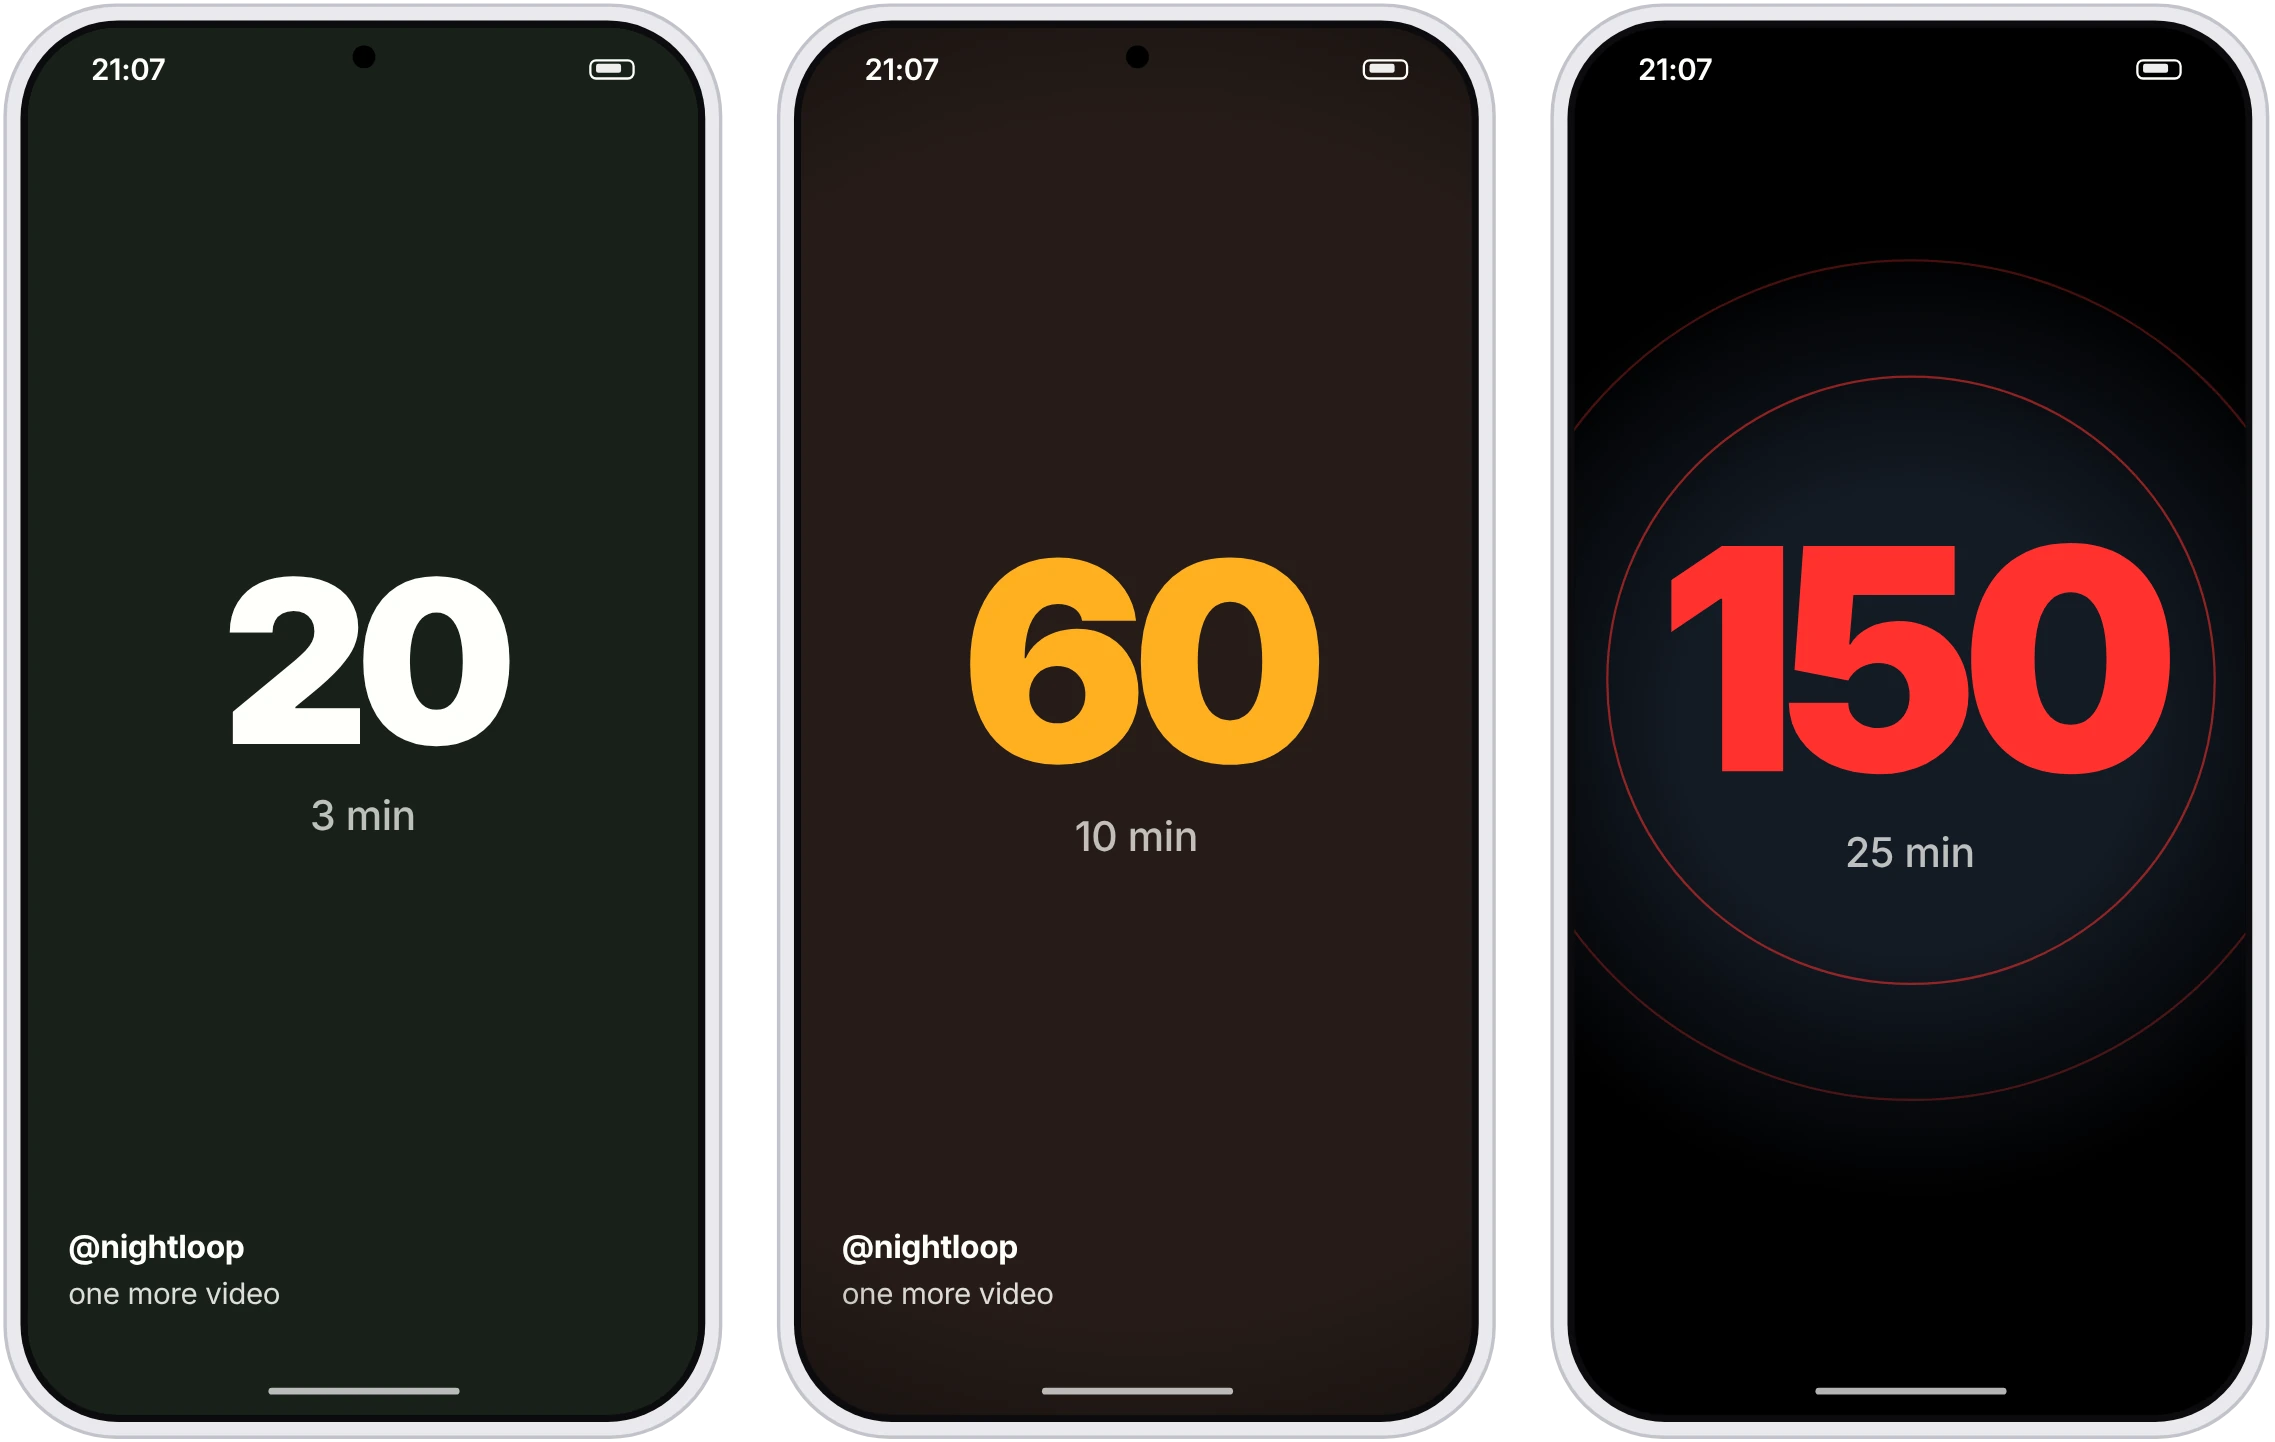
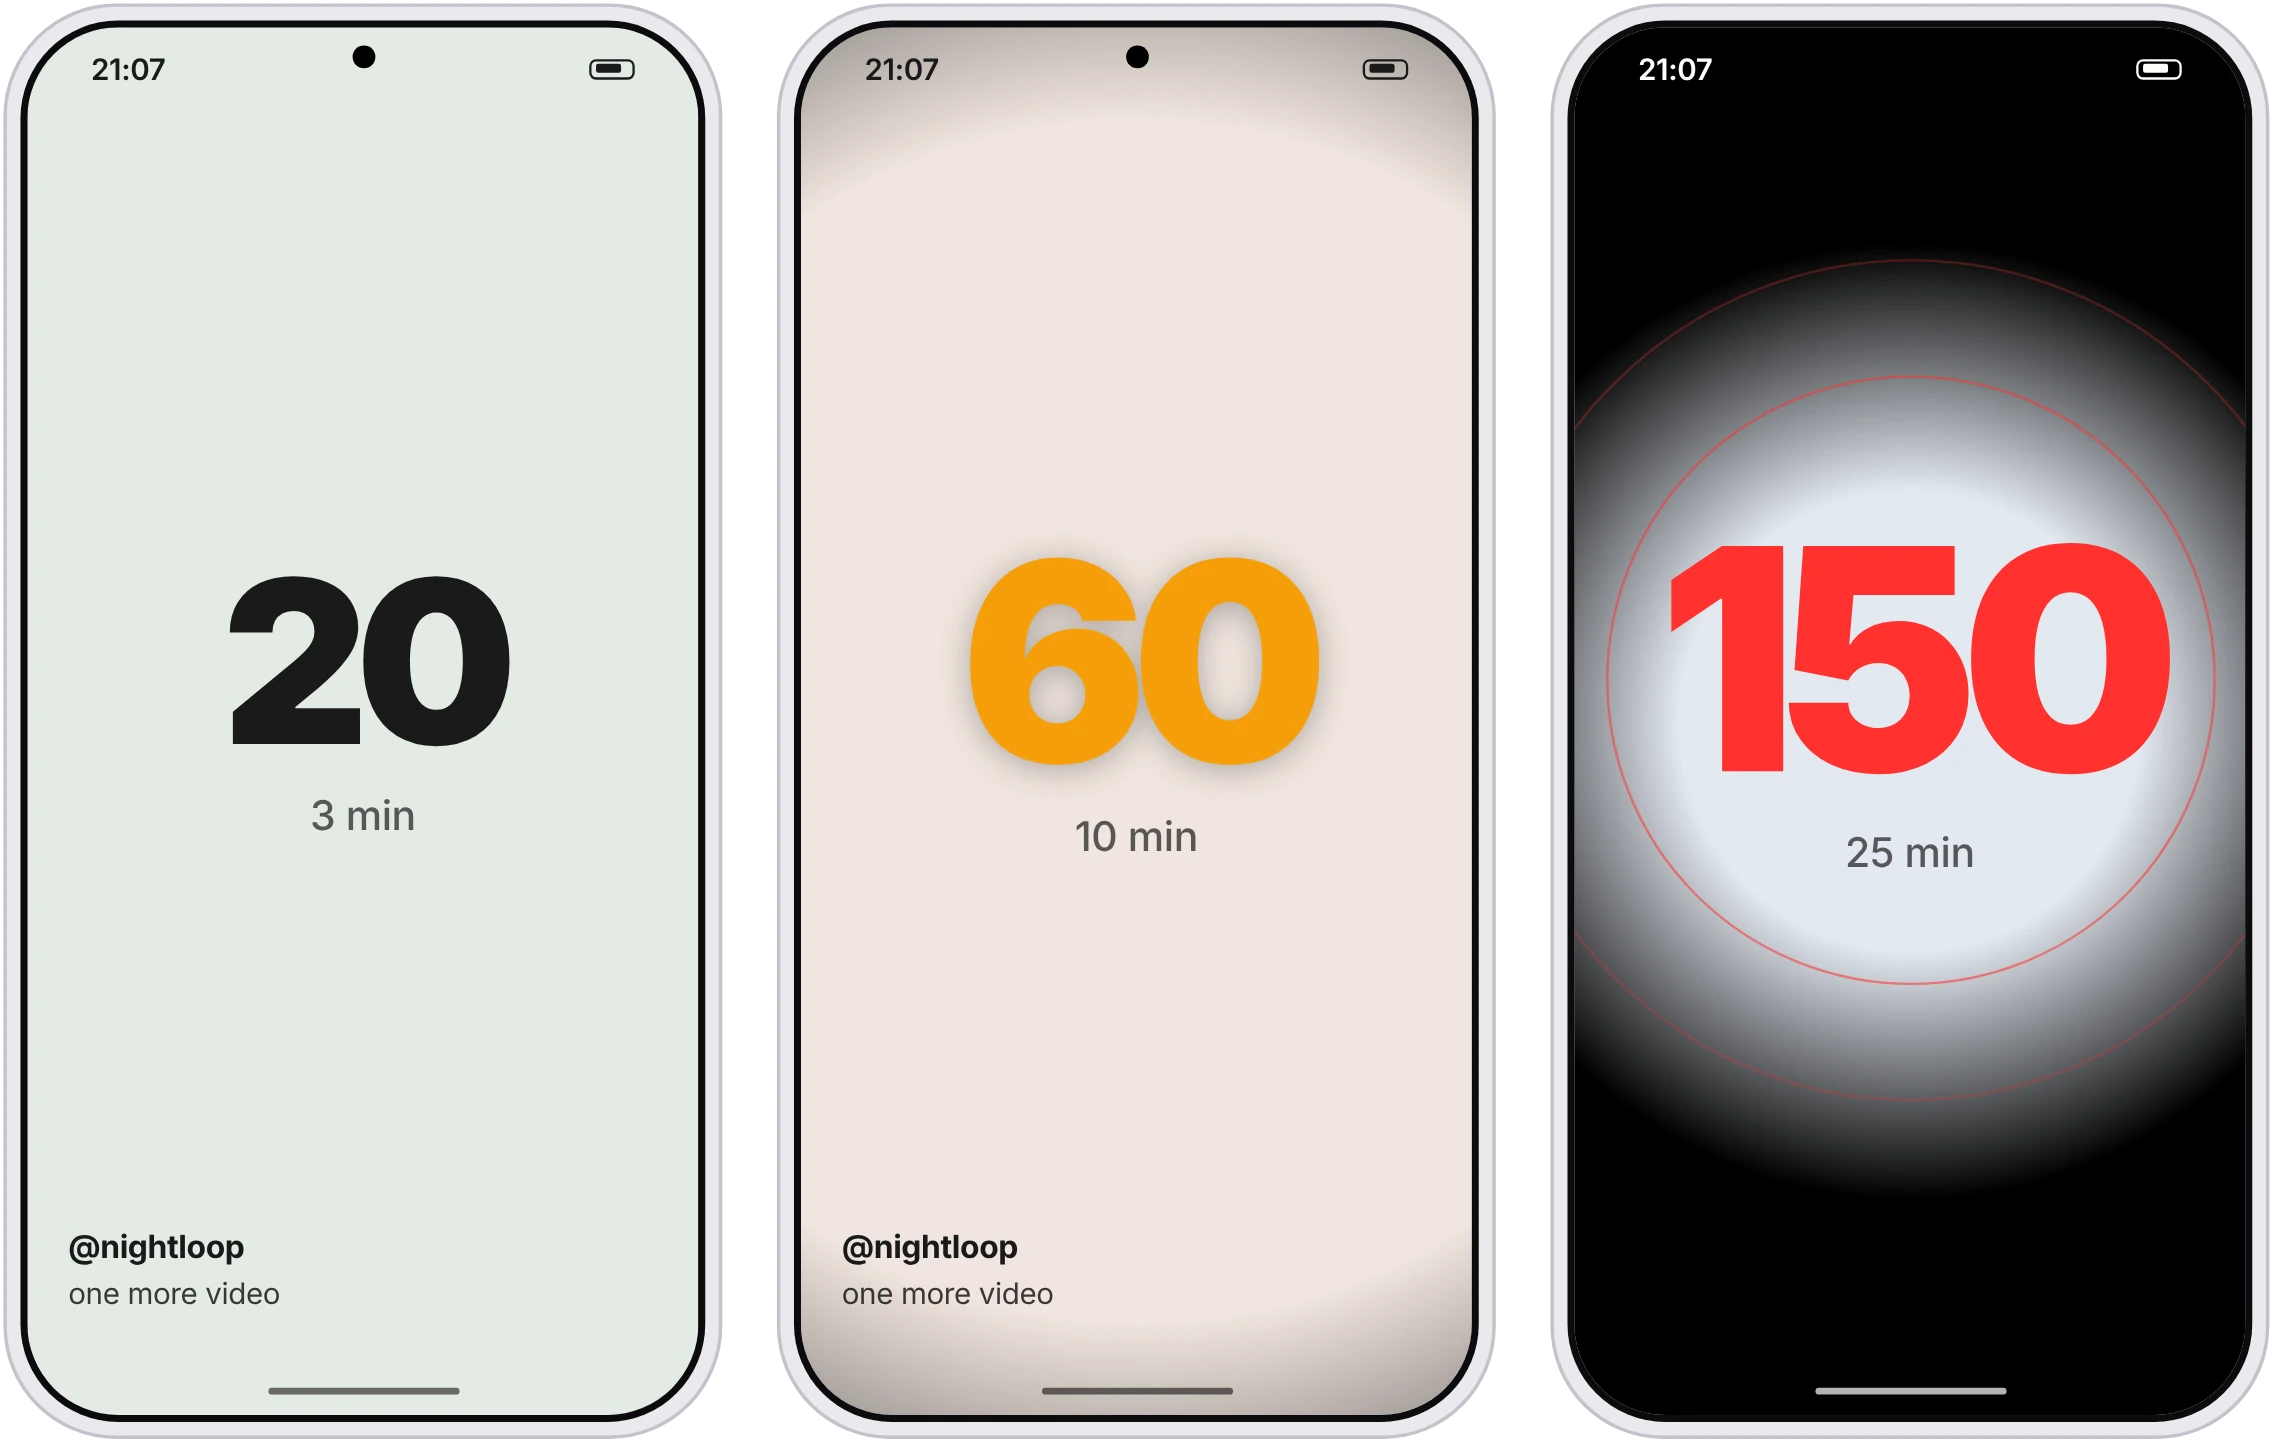
All screenshots and the demo phone use the opposite theme of the page; remove panels behind graphics
Claude-Session: https://claude.ai/code/session_01QRYSTgQJgMDiTSgzP9roCd

diff --git a/styles.css b/styles.css
@@ -97,7 +97,7 @@ h1 { font-size: clamp(2.75rem, 7vw, 5.5rem); font-weight: 400; letter-spacing: -
 .status.error { color: #d92d20; }
 
 /* stage: one big rounded card, demo phone left, controls right */
-.stage { display: grid; grid-template-columns: minmax(0, 1fr) minmax(0, 1fr); background: var(--surface); border-radius: 28px; overflow: hidden; }
+.stage { display: grid; grid-template-columns: minmax(0, 1fr) minmax(0, 1fr); }
 .demo { position: sticky; top: calc(var(--bar-h) + 8px); align-self: start; display: grid; justify-items: center; align-content: start; gap: 16px; padding: clamp(28px, 5vw, 64px) clamp(20px, 4vw, 48px); }
 .features { padding: clamp(16px, 3vw, 40px) clamp(24px, 5vw, 72px) clamp(16px, 3vw, 40px) 0; align-self: center; }
 .feat { padding: 28px 0; border-top: 1px solid var(--line); }
@@ -137,7 +137,7 @@ h1 { font-size: clamp(2.75rem, 7vw, 5.5rem); font-weight: 400; letter-spacing: -
 .widgets-copy { grid-column: 1; grid-row: 2; }
 .widgets h2 { grid-column: 1; grid-row: 1; }
 .widgets-copy .small { font-size: .875rem; }
-.homescreen { grid-column: 2; grid-row: 1 / span 2; max-width: 480px; justify-self: end; display: grid; grid-template-columns: repeat(2, minmax(0, 1fr)); gap: clamp(12px, 2vw, 24px); padding: clamp(16px, 2.5vw, 32px); background: var(--surface); border-radius: 24px; width: 100%; }
+.homescreen { grid-column: 2; grid-row: 1 / span 2; max-width: 480px; justify-self: end; display: grid; grid-template-columns: repeat(2, minmax(0, 1fr)); gap: clamp(12px, 2vw, 24px); padding: 0; width: 100%; }
 
 /* what Tally leaves alone: four plain columns */
 .never { padding-top: clamp(72px, 12vh, 136px); }
@@ -247,7 +247,7 @@ h1 { font-size: clamp(2.75rem, 7vw, 5.5rem); font-weight: 400; letter-spacing: -
 
 .wcol { display: grid; gap: clamp(12px, 2.4vw, 20px); align-content: start; }
 .wname { text-align: center; font-size: .9rem; color: var(--muted); }
-.widget { position: relative; container-type: inline-size; background: var(--bg); border: 1px solid var(--line); width: 100%; color: var(--ink); }
+.widget { position: relative; container-type: inline-size; background: var(--surface); border: 1px solid var(--line); width: 100%; color: var(--ink); }
 .w-square { aspect-ratio: 1; border-radius: 17cqw; border-radius: 28px; }
 .w-small { height: 72px; border-radius: 24px; display: flex; align-items: center; justify-content: space-between; padding: 0 14px; }
 .w-square .small-eye { position: absolute; top: 12px; right: 12px; }
@@ -309,4 +309,19 @@ h1 { font-size: clamp(2.75rem, 7vw, 5.5rem); font-weight: 400; letter-spacing: -
   .never ul { grid-template-columns: minmax(0, 1fr); }
   .nav-links { justify-content: space-between; margin: 0 -8px; }
   .nav-links a { padding: 8px 9px; font-size: .875rem; }
+}
+
+/* the demo phone follows the same rule as the screenshots: dark screen on a light page, light screen on a dark page */
+@media (prefers-color-scheme: dark) {
+  .phone { background: #e9e9ed; box-shadow: 0 0 0 1.5px #c3c3cb; }
+  .screen { background: #fff; box-shadow: 0 0 0 3px #0b0b0d; }
+  .slide { background: hsl(var(--h) 34% 91%); color: #1a1a1a; }
+  .slide .cap { color: #1a1a1a; }
+  .rail svg { stroke: #1a1a1a; }
+  .statusbar { color: #1a1a1a; }
+  .gesture { background: rgba(0, 0, 0, .5); }
+  .hint { color: #1a1a1a; text-shadow: none; }
+  .screen:focus-visible { outline-color: var(--red); }
+  .overlay[data-tone="white"] .num, .overlay[data-tone="white"][data-mode="time"] .mins { color: #1a1a1a; }
+  .overlay[data-tone="white"] .mins { color: rgba(26, 26, 26, .7); }
 }

diff --git a/demo.js b/demo.js
@@ -56,6 +56,7 @@ function render() {
   overlay.classList.toggle("hidden", !shown);
   overlay.dataset.mode = state.mode;
   overlay.style.setProperty("--c", color);
+  overlay.dataset.tone = n >= 30 ? "hot" : "white"; // light-screen styling reads this
   overlay.style.setProperty("--glow", glow);
   overlay.style.setProperty("--nz", (31 + 14 * Math.min(n / 150, 1)).toFixed(2));
   numEl.textContent = n;

diff --git a/README.md b/README.md
@@ -8,7 +8,7 @@ Live at https://jergusino.github.io/tally/ (GitHub Pages, branch `main`, folder 
 
 - `index.html`, `styles.css`, `script.js` (forms, nav), `demo.js` (the demo phone): one page with sections #number, #veil, #widgets and #settings. The nav scrolls smoothly to them. No build step.
 - `fonts/inter-latin-var.woff2`: Inter (variable), self-hosted, Latin only.
-- `images/number.webp`, `veil.webp`, `apps.webp`: graphics of the app screens, drawn from the UI (not photos of a phone). `apps.webp` shows the current Home and Settings. Each has a `-for-dark.webp` twin (light screens, silver frames) that the page swaps in under `prefers-color-scheme: dark`, so the phones stand out on either page colour.
+- `images/number.webp`, `veil.webp`, `apps.webp`: graphics of the app screens, drawn from the UI (not photos of a phone). `apps.webp` shows the current Home and Settings. Each has a `-for-dark.webp` twin (light screens, silver frames) that the page swaps in under `prefers-color-scheme: dark`. Screens are always the opposite of the page colour, the demo phone included (see the end of `styles.css`). The images are drawn with a script, not photographed.
 - `images/logo.svg`: eye and wordmark from the Tally logo. `images/favicon.png`: tab icon.
 
 ## What is on the page
